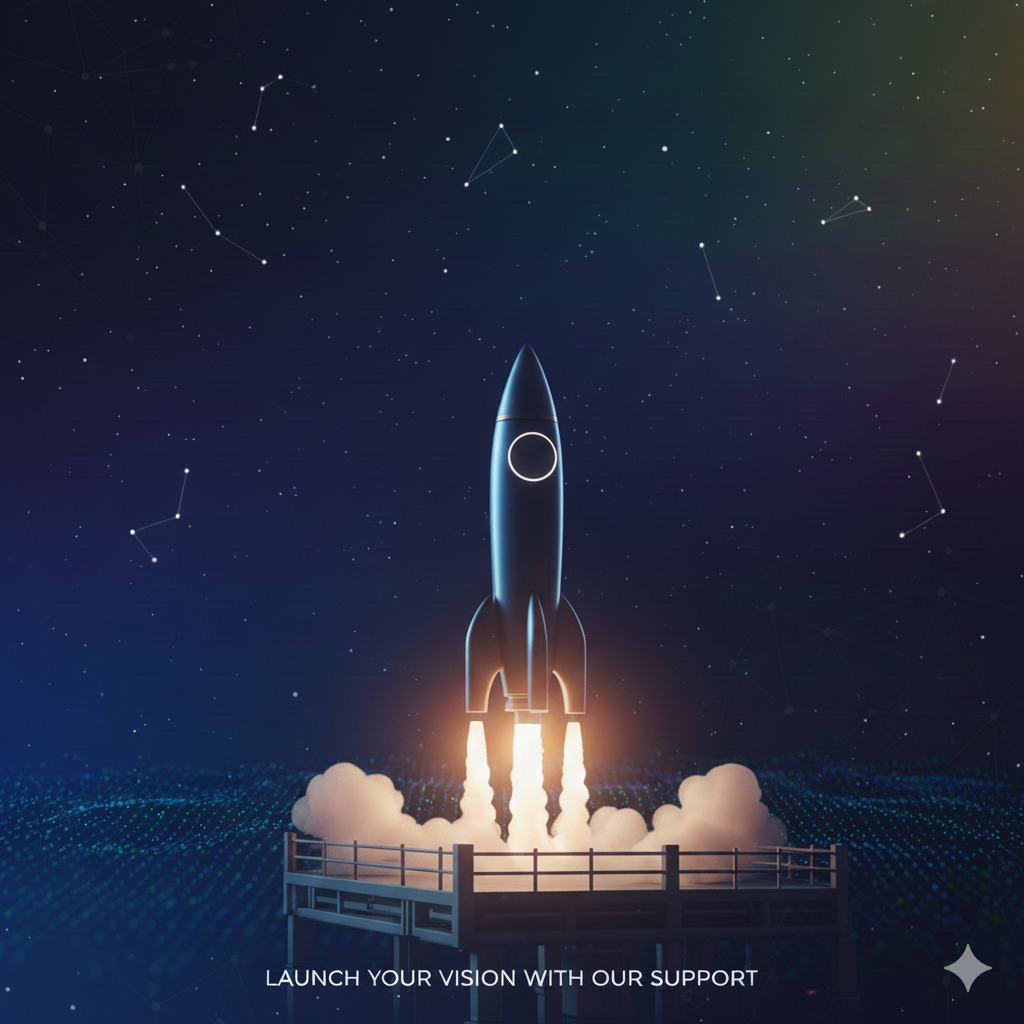
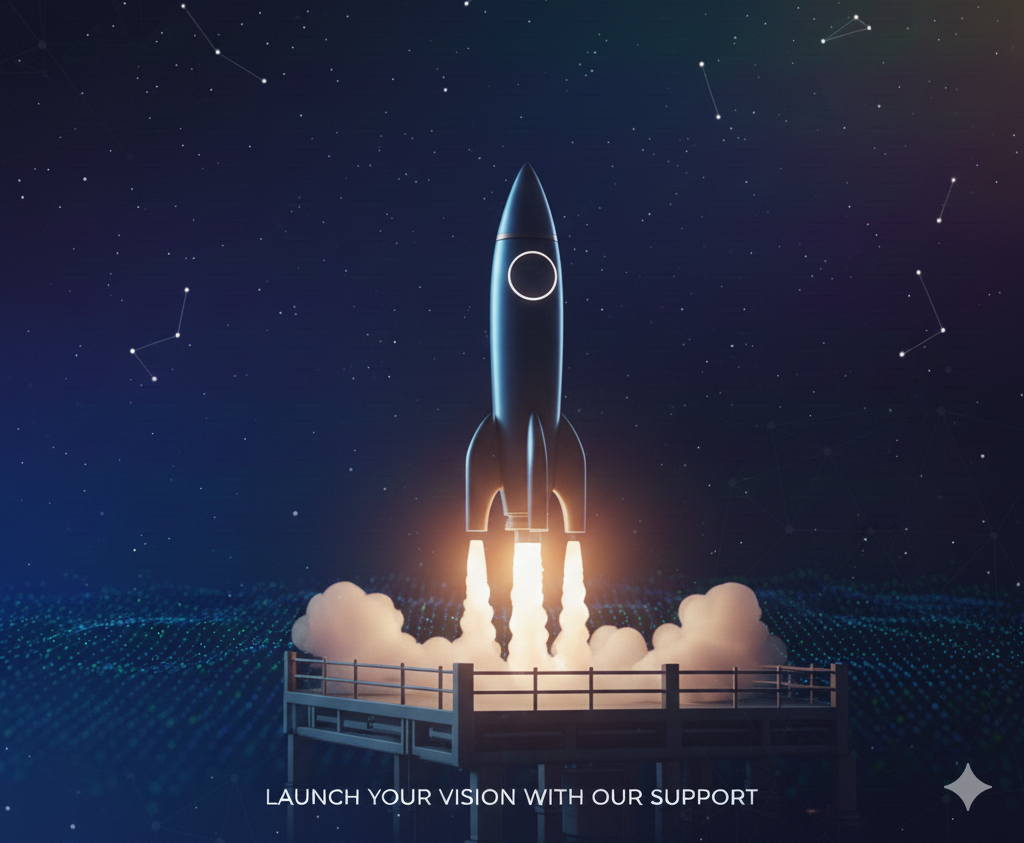
pqr xyz

diff --git a/components/hero-section-new.tsx b/components/hero-section-new.tsx
@@ -50,30 +50,22 @@ export default function HeroSectionNew() {
     (index + cards.length) % cards.length;
 
   return (
-    <section className="bg-white w-full flex justify-center lg:px-6 2xl:px-0">
+    <section className="bg-black w-full flex justify-center overflow-hidden">
       {/* Mobile Layout: Full screen, no white borders */}
       <div className="md:hidden w-full min-h-screen relative overflow-hidden">
           
-             {/* Mobile Dynamic Background */}
-             <motion.div
-              key={`mobile-bg-${currentIndex}`}
-              initial={{ opacity: 0 }}
-              animate={{ opacity: 1 }}
-              transition={{ duration: 1 }}
-              className={`absolute inset-0 bg-gradient-to-br ${cards[currentIndex].gradient}`}
-            />
-            
-            <Image
+             <Image
               src="/BackgroundImage.png"
               alt="Background"
               fill
               priority
               quality={90}
-              className="object-cover opacity-40 mix-blend-overlay"
+              className="object-cover"
               sizes="100vw"
             />
           
-            <div className="absolute inset-0 bg-black/20"></div>
+            {/* Dark fade for mobile at bottom */}
+            <div className="absolute inset-x-0 bottom-0 h-64 bg-gradient-to-t from-gray-900 via-gray-900/40 to-transparent"></div>
             
            
             <div className="relative z-10 flex flex-col items-center px-6 pt-24 pb-12 h-full justify-center min-h-screen">
@@ -81,7 +73,7 @@ export default function HeroSectionNew() {
               <h1 
                 className="font-manrope font-bold text-[2.5rem] leading-[1.2] tracking-[-0.04em] text-white text-center w-full mb-6"
               >
-                Expert CA Services for Your Business Growth
+                Expert Services for Your Business Growth
               </h1>
               
           
@@ -97,18 +89,6 @@ export default function HeroSectionNew() {
               </button>
               
               
-              <div className="flex items-center gap-2 mb-12">
-                <Image
-                  src="/placeholder-logo.png"
-                  alt="Logo"
-                  width={14}
-                  height={14}
-                  className="shrink-0"
-                />
-                <p className="font-manrope font-medium text-sm leading-[20px] text-gray-200 text-center">
-                  Book a free discovery call
-                </p>
-              </div>
 
               
               <div className="relative w-full h-[380px] flex items-center justify-center overflow-visible">
@@ -192,9 +172,8 @@ export default function HeroSectionNew() {
             priority
             className="object-cover"
           />
-          {/* Darker Gradient Overlay for readability */}
-          <div className={`absolute inset-0 bg-gradient-to-br transition-all duration-1000 opacity-90 ${cards[currentIndex].gradient}`}></div>
-          <div className="absolute inset-0 bg-black/40"></div>
+          {/* Bottom Fade to blend with content/footer */}
+          <div className="absolute inset-x-0 bottom-0 h-96 bg-gradient-to-t from-gray-900 via-gray-900/40 to-transparent"></div>
         </div>
 
         {/* Content Container */}
@@ -203,7 +182,7 @@ export default function HeroSectionNew() {
           <div className="flex-1 max-w-[40rem] lg:max-w-[44rem] space-y-6 lg:space-y-8">
             {/* Main Heading */}
             <h1 className="text-[3rem] lg:text-[4rem] 2xl:text-[5rem] font-manrope font-bold leading-[1.125] tracking-[-0.02em] text-white">
-              Expert CA Services for <br /> Your Business Growth
+              Expert Services for <br /> Your Business Growth
             </h1>
             
           
@@ -220,18 +199,6 @@ export default function HeroSectionNew() {
                 Get Expert Consultation
               </button>
               
-              <div className="flex items-center gap-3 max-w-[18rem]">
-                <Image
-                  src="/placeholder-logo.png"
-                  alt="Logo"
-                  width={14}
-                  height={14}
-                  className="shrink-0"
-                />
-                <p className="font-manrope font-medium text-xs lg:text-sm leading-[1.4] text-gray-300">
-                  Book a free discovery call
-                </p>
-              </div>
             </div>
           </div>
 

diff --git a/components/footer.tsx b/components/footer.tsx
@@ -3,10 +3,10 @@ import { Facebook, Twitter, Instagram, Linkedin, Mail, Phone, MapPin } from "luc
 
 export default function Footer() {
   return (
-    <footer className="bg-gray-900 text-white pt-12 pb-12">
+    <footer className="bg-gray-900 text-white pt-8 pb-8">
       <div className="w-full px-4 md:px-8 lg:px-12">
         {/* Main footer content */}
-        <div className="grid grid-cols-1 sm:grid-cols-2 lg:grid-cols-4 gap-8">
+        <div className="grid grid-cols-1 sm:grid-cols-2 lg:grid-cols-3 gap-8">
           {/* Company info */}
           <div>
             <h3 className="text-lg font-semibold mb-4 border-b border-gray-700 pb-2">About Us</h3>
@@ -34,28 +34,11 @@ export default function Footer() {
             </div>
           </div>
 
-          {/* Quick Links */}
-          <div>
-            <h3 className="text-lg font-semibold mb-4 border-b border-gray-700 pb-2">Quick Links</h3>
-            <ul className="space-y-2 text-sm">
-              {quickLinks.map((link, index) => (
-                <li key={index}>
-                  <Link
-                    href={link.href}
-                    className="text-gray-400 hover:text-white hover:underline transition-colors duration-200 flex items-center"
-                  >
-                    <span className="mr-2">›</span> {link.label}
-                  </Link>
-                </li>
-              ))}
-            </ul>
-          </div>
-
           {/* Services */}
           <div>
             <h3 className="text-lg font-semibold mb-4 border-b border-gray-700 pb-2">Our Services</h3>
             <ul className="space-y-2 text-sm">
-              {services.map((service, index) => (
+              {services.slice(0, 4).map((service, index) => (
                 <li key={index}>
                   <Link
                     href={service.href}
@@ -89,7 +72,7 @@ export default function Footer() {
         </div>
 
         {/* Bottom footer */}
-        <div className="mt-10 pt-6 border-t border-gray-800 flex flex-col md:flex-row justify-between items-center">
+        <div className="mt-8 pt-6 border-t border-gray-800 flex flex-col md:flex-row justify-between items-center">
           <p className="text-gray-400 text-xs mb-4 md:mb-0 text-center md:text-left">
             &copy; {new Date().getFullYear()} Bharat Comply. All rights reserved.
           </p>
@@ -112,16 +95,6 @@ export default function Footer() {
     </footer>
   )
 }
-
-const quickLinks = [
-  { label: "Home", href: "/" },
-  { label: "About Us", href: "/about" },
-  { label: "Services", href: "/services" },
-  { label: "Pricing", href: "/pricing" },
-  { label: "Blog", href: "/blog" },
-  { label: "Contact", href: "/contact" },
-  { label: "FAQs", href: "/faqs" },
-]
 
 const services = [
   { label: "Ideation to IPO", href: "/ideation-to-ipo" },

diff --git a/app/register/page.tsx b/app/register/page.tsx
@@ -156,23 +156,20 @@ const handleSubmit = async (e: React.FormEvent) => {
 
 
   return (
-    <div className="relative min-h-screen w-full flex items-center justify-center lg:justify-start lg:pl-[12%] overflow-hidden py-12">
-      {/* Background Image with Gradient Overlay */}
+    <div className="relative min-h-screen w-full flex items-start justify-center lg:justify-start lg:pl-[12%] pt-28 md:pt-36 pb-24 md:pb-32 overflow-hidden py-12">
+      {/* Background Image Container */}
       <div className="absolute inset-0 z-0">
         <Image
-          src="/BackgroundImage.png"
+          src="/lOGINbACK.png"
           alt="Register Background"
           fill
           priority
           className="object-cover object-right lg:object-[80%_center]"
         />
-        <div className="absolute inset-0 bg-gradient-to-br from-[#1A3C34] via-[#0D1F1A] to-black opacity-90"></div>
-        <div className="absolute inset-0 bg-black/40"></div>
+        {/* Bottom Fade to blend with footer */}
+        <div className="absolute inset-x-0 bottom-0 h-64 bg-gradient-to-t from-gray-900 via-gray-900/60 to-transparent"></div>
       </div>
 
-      {/* Decorative Circles */}
-      <div className="absolute top-[-10%] right-[-10%] w-[40%] h-[40%] bg-[#0EA5E9]/20 blur-[120px] rounded-full pointer-events-none"></div>
-      <div className="absolute bottom-[-10%] left-[-10%] w-[40%] h-[40%] bg-[#1A3C34]/30 blur-[120px] rounded-full pointer-events-none"></div>
 
       {/* Glassmorphic Form Container */}
       <motion.div 
@@ -186,17 +183,6 @@ const handleSubmit = async (e: React.FormEvent) => {
           <div className="absolute inset-x-0 top-0 h-px bg-gradient-to-r from-transparent via-white/30 to-transparent"></div>
           
           <div className="text-center mb-8">
-            <Link href="/" className="inline-block mb-4">
-              <div className="bg-white/10 p-2 rounded-2xl border border-white/20 backdrop-blur-md">
-                <Image
-                  src="/LOGO.jpeg"
-                  alt="Logo"
-                  width={50}
-                  height={50}
-                  className="rounded-xl"
-                />
-              </div>
-            </Link>
             <h1 className="text-3xl font-bold text-white mb-2 tracking-tight">Create an Account</h1>
             <p className="text-gray-300 font-medium">Join us and start your journey</p>
           </div>

diff --git a/app/login/page.tsx b/app/login/page.tsx
@@ -146,23 +146,19 @@ export default function LoginPage() {
 // };
 
   return (
-    <div className="relative min-h-screen w-full flex items-center justify-center lg:justify-start lg:pl-[12%] overflow-hidden">
-      {/* Background Image with Gradient Overlay */}
+    <div className="relative min-h-screen w-full flex items-start justify-center lg:justify-start lg:pl-[12%] pt-28 md:pt-36 pb-24 md:pb-32 overflow-hidden">
+      {/* Background Image Container */}
       <div className="absolute inset-0 z-0">
         <Image
-          src="/BackgroundImage.png"
+          src="/lOGINbACK.png"
           alt="Login Background"
           fill
           priority
           className="object-cover object-right lg:object-[80%_center]"
         />
-        <div className="absolute inset-0 bg-gradient-to-br from-[#0F3642] via-[#09222B] to-black opacity-90"></div>
-        <div className="absolute inset-0 bg-black/40"></div>
+        {/* Bottom Fade to blend with footer */}
+        <div className="absolute inset-x-0 bottom-0 h-64 bg-gradient-to-t from-gray-900 via-gray-900/60 to-transparent"></div>
       </div>
-
-      {/* Decorative Circles (optional, for that modern look) */}
-      <div className="absolute top-[-10%] left-[-10%] w-[40%] h-[40%] bg-[#0EA5E9]/20 blur-[120px] rounded-full pointer-events-none"></div>
-      <div className="absolute bottom-[-10%] right-[-10%] w-[40%] h-[40%] bg-[#2D1B4E]/30 blur-[120px] rounded-full pointer-events-none"></div>
 
       {/* Glassmorphic Form Container */}
       <motion.div 
@@ -176,17 +172,6 @@ export default function LoginPage() {
           <div className="absolute inset-x-0 top-0 h-px bg-gradient-to-r from-transparent via-white/30 to-transparent"></div>
           
           <div className="text-center mb-10">
-            <Link href="/" className="inline-block mb-6">
-              <div className="bg-white/10 p-2 rounded-2xl border border-white/20 backdrop-blur-md">
-                <Image
-                  src="/LOGO.jpeg"
-                  alt="Logo"
-                  width={60}
-                  height={60}
-                  className="rounded-xl"
-                />
-              </div>
-            </Link>
             <h1 className="text-3xl font-bold text-white mb-3 tracking-tight">Welcome Back</h1>
             <p className="text-gray-300 font-medium">Log in to your account</p>
           </div>
